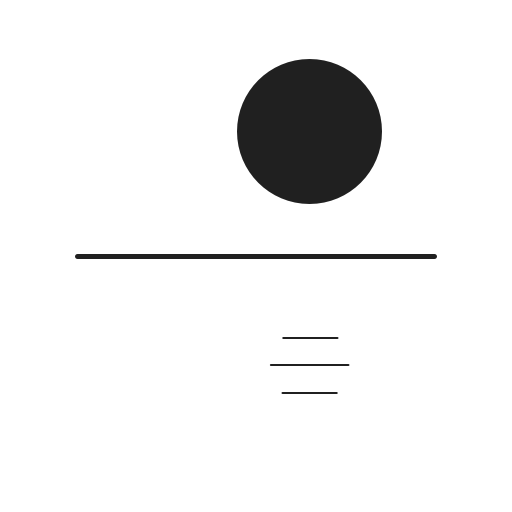
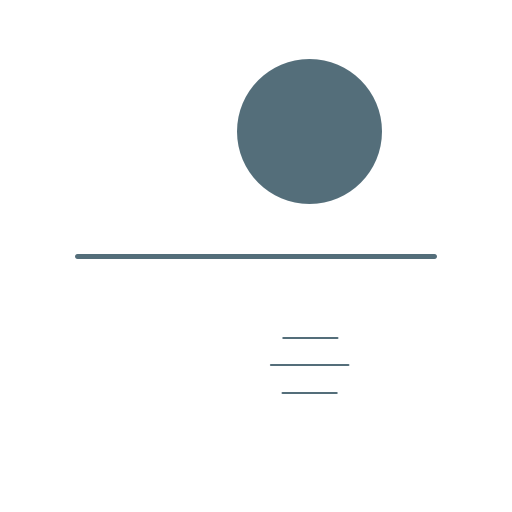
Update page styles.

diff --git a/public/css/extended.css b/public/css/extended.css
@@ -1,11 +1,31 @@
+/* Custom theme */
+.theme-base-0g .sidebar {
+  background-color: #546E7A;
+}
+.theme-base-0g .content a,
+.theme-base-0g .related-posts li a:hover {
+  color: #1E88E5;
+}
+
 .center-image
 {
     margin: 0 auto;
     display: block;
 }
+
 img.emoji {
     display: inline;
     height: 1em;
     width: 1em;
     margin-bottom: 0.25em;
+}
+
+h1, h2, h3 {
+    font-family: Lato, sans-serif;
+}
+
+body {
+    font-family: 'Open Sans', sans-serif;
+    font-size: 17px
+    -webkit-font-smoothing: antialiased;
 }

diff --git a/_layouts/default.html b/_layouts/default.html
@@ -3,7 +3,7 @@
 
   {% include head.html %}
 
-  <body>
+  <body class="theme-base-0g">
 
     {% include sidebar.html %}
 
